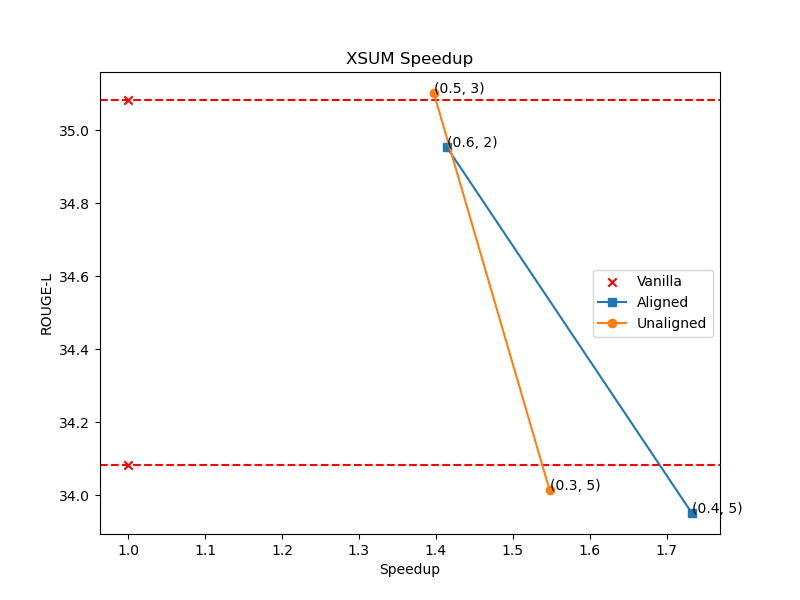
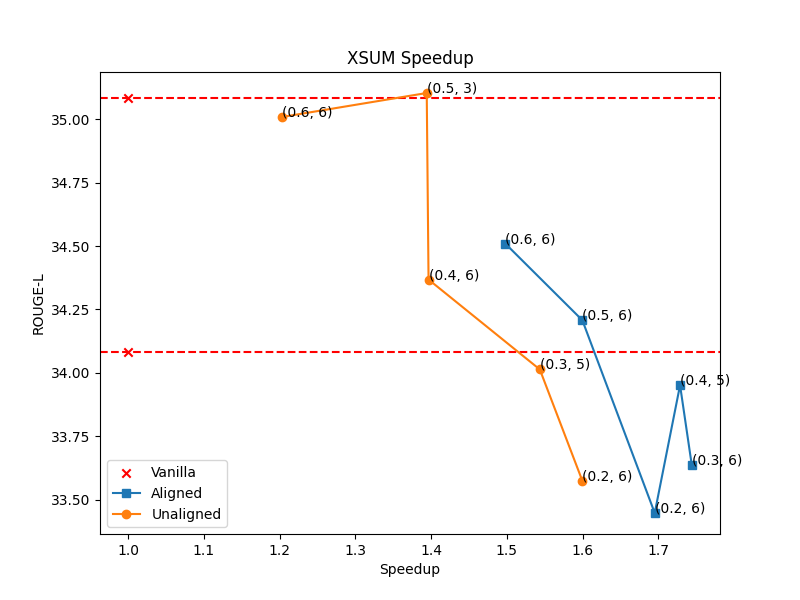
Add XSUM Trade-off graphs

diff --git a/src/visualizations/show_performance.py b/src/visualizations/show_performance.py
@@ -4,6 +4,7 @@ import json
 import argparse
 import matplotlib.pyplot as plt
 
+SPEED_METRIC = 'eval_samples_per_second'
 RESULTS_DIR = 'results/'
 TITLES = {
     "iwslt2017": "IWSLT 2017",
@@ -32,8 +33,8 @@ def load_data(experiment, hardware="tesla-t4", best="latency"):
     unaligned_data = get_data(experiment, results_dir, aligned=False, best=best)
     aligned_data = get_data(experiment, results_dir, aligned=True, best=best)
 
-    unaligned_data = sorted(unaligned_data, key=lambda x: x["eval_runtime"])
-    aligned_data = sorted(aligned_data, key=lambda x: x["eval_runtime"])
+    unaligned_data = sorted(unaligned_data, key=lambda x: x[SPEED_METRIC])
+    aligned_data = sorted(aligned_data, key=lambda x: x[SPEED_METRIC])
 
     return vanilla_data, aligned_data, unaligned_data
 
@@ -43,12 +44,12 @@ def get_data(experiment, results_dir, aligned, best=None):
     else:
         results_dir += "unaligned/"
 
-    file_pattern = r'fb=(\d+\.\d+)_rb=(\d+\.\d+)\.json'
+    file_pattern = r'fb=(\d+(\.\d+)?)+_rb=(\d+(\.\d+)?)+\.json'
     if best == "score":
         metric_key, _ = get_metric(experiment)
         compare_best = lambda x, y: x[metric_key] > y[metric_key]
     else:
-        compare_best = lambda x, y: x["eval_runtime"] < y["eval_runtime"]
+        compare_best = lambda x, y: x[SPEED_METRIC] > y[SPEED_METRIC]
 
     data = []
     data_best = {}
@@ -59,7 +60,7 @@ def get_data(experiment, results_dir, aligned, best=None):
 
                 if best:
                     fb_threshold = float(re.search(file_pattern, file).group(1))
-                    rb_threshold = float(re.search(file_pattern, file).group(2))
+                    rb_threshold = float(re.search(file_pattern, file).group(3))
                     if fb_threshold not in data_best or compare_best(result, data_best[fb_threshold]):
                         result["fb_threshold"] = fb_threshold
                         result["rb_threshold"] = rb_threshold
@@ -79,10 +80,16 @@ def get_metric(experiment):
         raise ValueError(f"Unknown experiment: {experiment}")
     
 def get_measure(speedup):
+    calculate_speedup = lambda baseline, compared: baseline / compared
+    calculate_normalized = lambda baseline, compared: compared / baseline
     if speedup:
-        return calculate_speedup, "Speedup"
+        measure_func = calculate_normalized if SPEED_METRIC == 'eval_samples_per_second' else calculate_speedup
+        measure_label = "Speedup"
     else:
-        return calculate_latency, "Normalized Latency"
+        measure_func = calculate_speedup if SPEED_METRIC == 'eval_samples_per_second' else calculate_latency
+        measure_label = "Latency"
+    
+    return measure_func, measure_label
 
 def show_performance(experiment, hardware="tesla-t4", speedup=True, best=None):
     vanilla_data, aligned_data, unaligned_data = load_data(experiment, hardware, best)
@@ -101,13 +108,13 @@ def show_performance(experiment, hardware="tesla-t4", speedup=True, best=None):
     plt.scatter(1, baseline, color='red', marker='x', label="Vanilla")
 
     plt.plot(
-        [measure_func(vanilla_data["eval_runtime"], data["eval_runtime"]) for data in aligned_data],
+        [measure_func(vanilla_data[SPEED_METRIC], data[SPEED_METRIC]) for data in aligned_data],
         [data[metric_key] for data in aligned_data],
         label="Aligned", marker='s'
     )
 
     plt.plot(
-        [measure_func(vanilla_data["eval_runtime"], data["eval_runtime"]) for data in unaligned_data],
+        [measure_func(vanilla_data[SPEED_METRIC], data[SPEED_METRIC]) for data in unaligned_data],
         [data[metric_key] for data in unaligned_data],
         label="Unaligned", marker='o'
     )
@@ -115,7 +122,7 @@ def show_performance(experiment, hardware="tesla-t4", speedup=True, best=None):
     # (FB, RB) thresholds annotation
     if best:
         for data in aligned_data + unaligned_data:
-            plt.annotate(f"({data['fb_threshold']}, {int(data['rb_threshold'])})", (measure_func(vanilla_data["eval_runtime"], data["eval_runtime"]), data[metric_key]))
+            plt.annotate(f"({data['fb_threshold']}, {int(data['rb_threshold'])})", (measure_func(vanilla_data[SPEED_METRIC], data[SPEED_METRIC]), data[metric_key]))
 
     plt.legend()
     plt.savefig(RESULTS_DIR + f"{experiment}_{hardware}_{'speedup' if speedup else 'latency'}_{'best_' + best if best else 'all'}.png")
